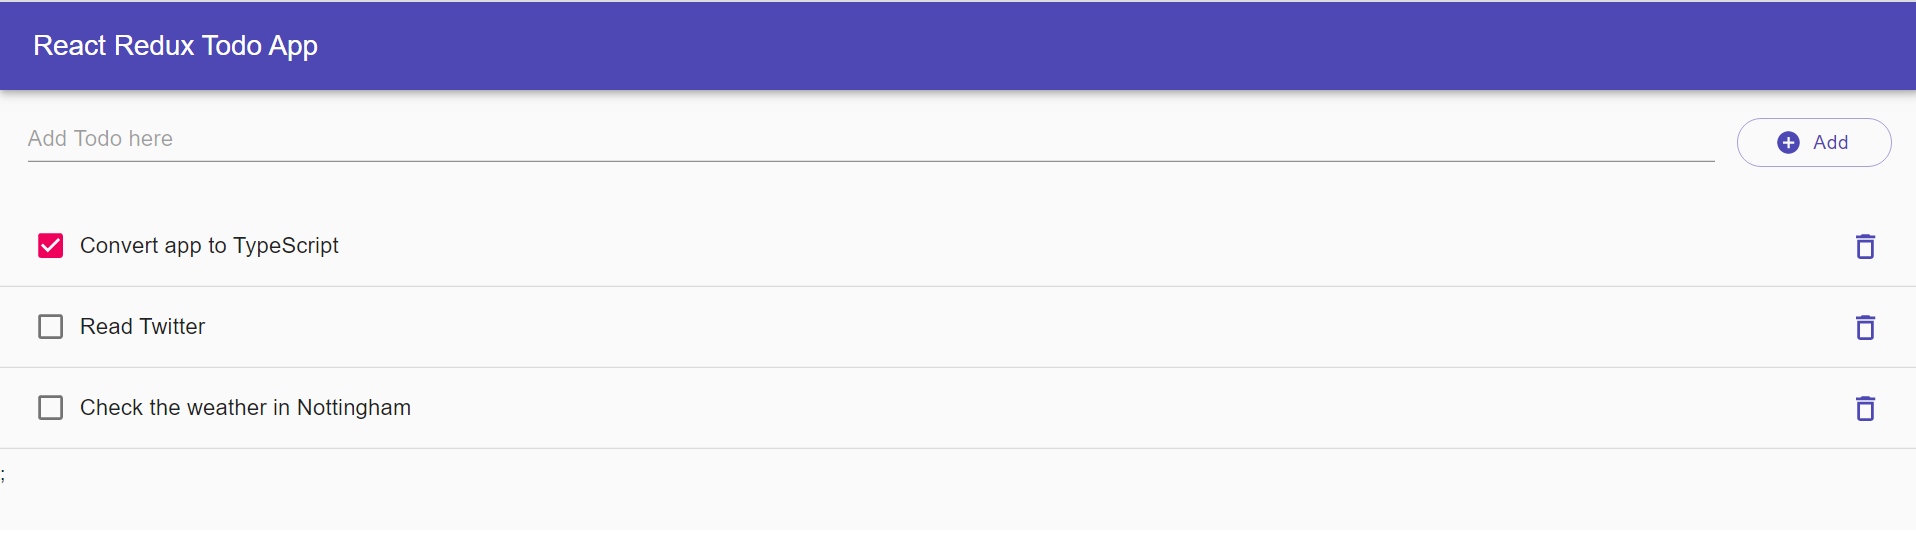
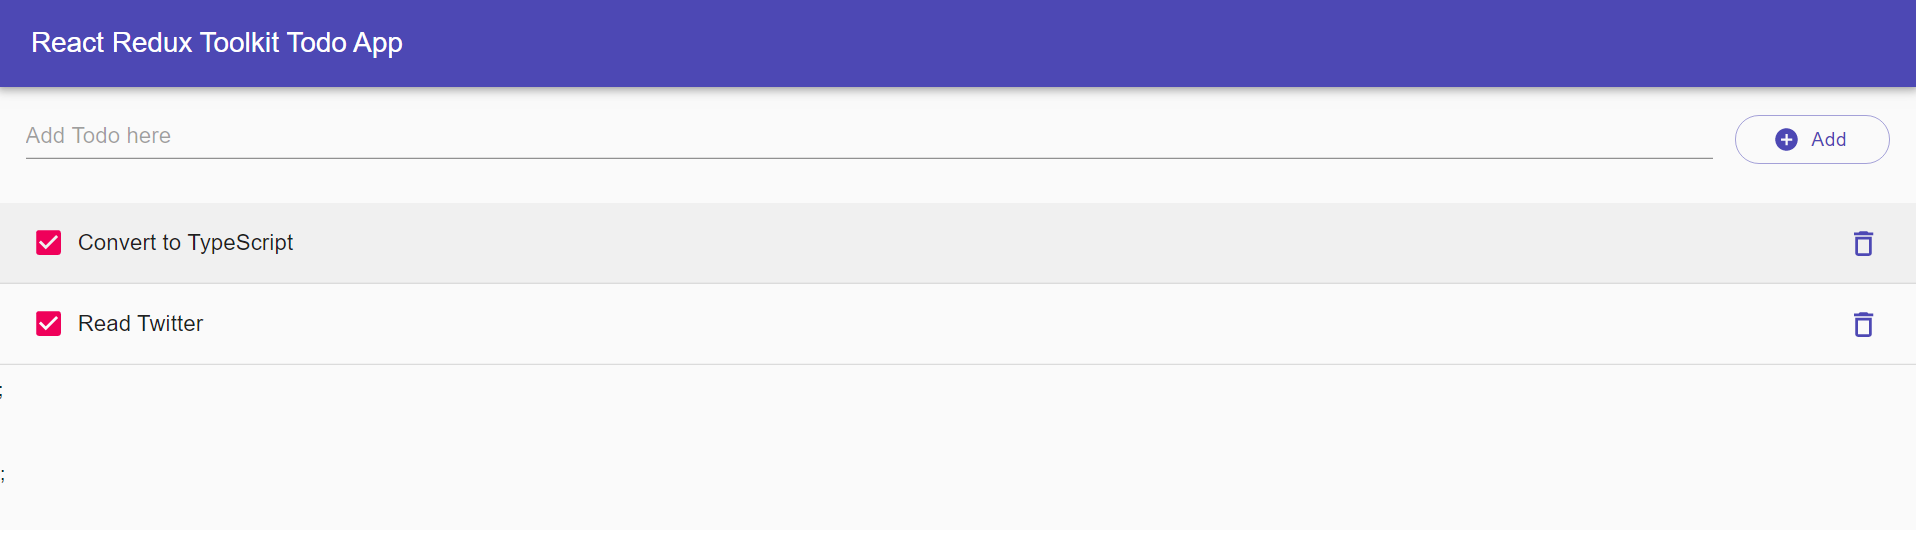
Update to use Redux Toolkit

diff --git a/src/pages/MainPage.js b/src/pages/MainPage.js
@@ -1,47 +1,8 @@
-import React, { useState } from 'react';
-import { useSelector, useDispatch } from 'react-redux';
-import addTodoAction from '../actions/AddTodoAction';
-import completeTodoAction from '../actions/CompleteTodoAction';
-import deleteTodoAction from '../actions/DeleteTodoAction';
-import Header from '../components/Header';
-import AddTodo from '../components/AddTodo';
-import TodoList from '../components/TodoList';
+import { React } from 'react';
+import Todos from '../features/todos/Todos';
 
 function MainPage() {
-  const dispatch = useDispatch();
-  const [input, setInput] = useState('');
-  const todos = useSelector((state) => state.todos);
-
-  const handleAddTodo = () => {
-    if (input.length > 0) {
-      dispatch(addTodoAction(input));
-      setInput('');
-    }
-  };
-
-  const handleCompleteTodo = (id) => {
-    dispatch(completeTodoAction(id));
-  };
-
-  const handleDeleteTodo = (id) => {
-    dispatch(deleteTodoAction(id));
-  };
-
-  return (
-    <div>
-      <Header />
-      <AddTodo
-        input={input}
-        setInput={setInput}
-        handleAddTodo={handleAddTodo}
-      />
-      <TodoList
-        todos={todos}
-        handleCompleteTodo={handleCompleteTodo}
-        handleDeleteTodo={handleDeleteTodo}
-      />
-    </div>
-  );
+  return <Todos />;
 }
 
 export default MainPage;

diff --git a/src/features/todos/TodoList.js b/src/features/todos/TodoList.js
@@ -1,5 +1,5 @@
 import React from 'react';
-import PropTypes from 'prop-types';
+import { arrayOf, shape, number, string, bool, func } from 'prop-types';
 import {
   List,
   ListItem,
@@ -12,11 +12,11 @@ import {
 import DeleteOutlined from '@material-ui/icons/DeleteOutlined';
 
 function TodoList(props) {
-  const { todos, handleCompleteTodo, handleDeleteTodo } = props;
+  const { todosList, handleCompleteTodo, handleDeleteTodo } = props;
 
   return (
     <List>
-      {todos.map((todo) => (
+      {todosList.map((todo) => (
         <ListItem key={todo.id} button divider>
           <Checkbox
             aria-label="Complete Todo"
@@ -40,9 +40,19 @@ function TodoList(props) {
 }
 
 TodoList.propTypes = {
-  todos: PropTypes.shape([]).isRequired,
-  handleCompleteTodo: PropTypes.func.isRequired,
-  handleDeleteTodo: PropTypes.func.isRequired
+  todosList: arrayOf(
+    shape({
+      id: number.isRequired,
+      task: string.isRequired,
+      complete: bool.isRequired
+    })
+  ),
+  handleCompleteTodo: func.isRequired,
+  handleDeleteTodo: func.isRequired
+};
+
+TodoList.defaultProps = {
+  todosList: []
 };
 
 export default TodoList;

diff --git a/src/features/todos/Todos.js b/src/features/todos/Todos.js
@@ -1,0 +1,45 @@
+import React, { useState } from 'react';
+import { useSelector, useDispatch } from 'react-redux';
+import Header from '../../components/Header';
+import AddTodo from './AddTodo';
+import TodoList from './TodoList';
+import { addTodo, deleteTodo, completeTodo } from './todosSlice';
+
+function Todos() {
+  const dispatch = useDispatch();
+  const [input, setInput] = useState('');
+  const todosList = useSelector((state) => state);
+
+  const handleAddTodo = () => {
+    if (input.length > 0) {
+      dispatch(addTodo(input));
+      setInput('');
+    }
+  };
+
+  const handleCompleteTodo = (id) => {
+    dispatch(completeTodo(id));
+  };
+
+  const handleDeleteTodo = (id) => {
+    dispatch(deleteTodo(id));
+  };
+
+  return (
+    <div>
+      <Header />
+      <AddTodo
+        input={input}
+        setInput={setInput}
+        handleAddTodo={handleAddTodo}
+      />
+      <TodoList
+        todosList={todosList}
+        handleCompleteTodo={handleCompleteTodo}
+        handleDeleteTodo={handleDeleteTodo}
+      />
+    </div>
+  );
+}
+
+export default Todos;

diff --git a/src/features/todos/todosSlice.js b/src/features/todos/todosSlice.js
@@ -1,0 +1,42 @@
+import { createSlice } from '@reduxjs/toolkit';
+
+let nextTodoId = 0;
+
+export const todosSlice = createSlice({
+  name: 'todos',
+  initialState: [
+    {
+      id: 998,
+      task: 'Convert to TypeScript',
+      complete: true
+    },
+    {
+      id: 999,
+      task: 'Read Twitter',
+      complete: false
+    }
+  ],
+  reducers: {
+    addTodo: (state, action) => {
+      nextTodoId += 1;
+      state.push({
+        id: nextTodoId,
+        task: action.payload,
+        complete: false
+      });
+    },
+
+    deleteTodo(state, action) {
+      return state.filter((el) => el.id !== action.payload);
+    },
+    completeTodo(state, action) {
+      const commpleteTodo = state.find((t) => t.id === action.payload);
+      commpleteTodo.complete = !commpleteTodo.complete;
+      return state;
+    }
+  }
+});
+
+export const { addTodo, deleteTodo, completeTodo } = todosSlice.actions;
+
+export default todosSlice.reducer;

diff --git a/src/stores/index.js b/src/stores/index.js
@@ -1,11 +1,10 @@
-import { createStore, applyMiddleware } from 'redux';
-import { composeWithDevTools } from 'redux-devtools-extension';
 import { logger } from 'redux-logger';
-import rootReducer from '../reducers';
+import { configureStore } from '@reduxjs/toolkit';
+import todosReducer from '../features/todos/todosSlice';
 
-const store = createStore(
-  rootReducer,
-  composeWithDevTools(applyMiddleware(logger))
-);
+const store = configureStore({
+  reducer: todosReducer,
+  middleware: (getDefaultMiddleware) => getDefaultMiddleware().concat(logger)
+});
 
 export default store;

diff --git a/src/features/todos/AddTodo.js b/src/features/todos/AddTodo.js
@@ -1,5 +1,5 @@
 import React from 'react';
-import PropTypes from 'prop-types';
+import { string, func } from 'prop-types';
 import { TextField, Button, Grid } from '@material-ui/core';
 import AddCircleIcon from '@material-ui/icons/AddCircle';
 
@@ -45,9 +45,9 @@ function AddTodo(props) {
 }
 
 AddTodo.propTypes = {
-  input: PropTypes.string.isRequired,
-  setInput: PropTypes.func.isRequired,
-  handleAddTodo: PropTypes.func.isRequired
+  input: string.isRequired,
+  setInput: func.isRequired,
+  handleAddTodo: func.isRequired
 };
 
 export default AddTodo;

diff --git a/src/components/Header.js b/src/components/Header.js
@@ -6,7 +6,7 @@ function Header() {
     <AppBar color="primary" position="static" style={{ height: 64 }}>
       <Toolbar>
         <Typography variant="h6" align="center">
-          React Redux Todo App
+          React Redux Toolkit Todo App
         </Typography>
       </Toolbar>
     </AppBar>
